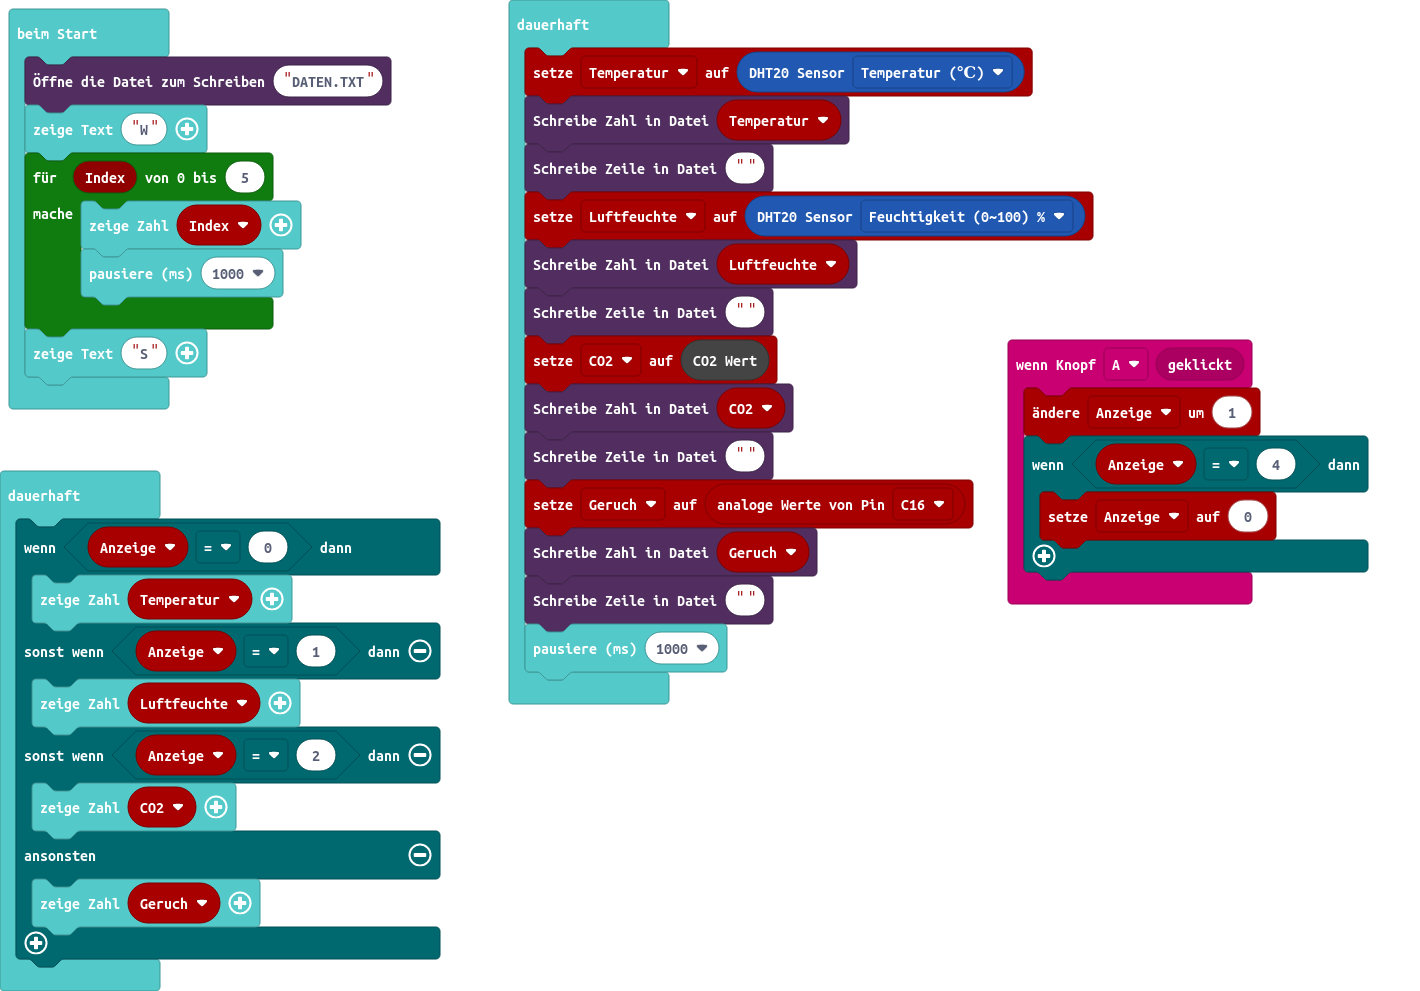
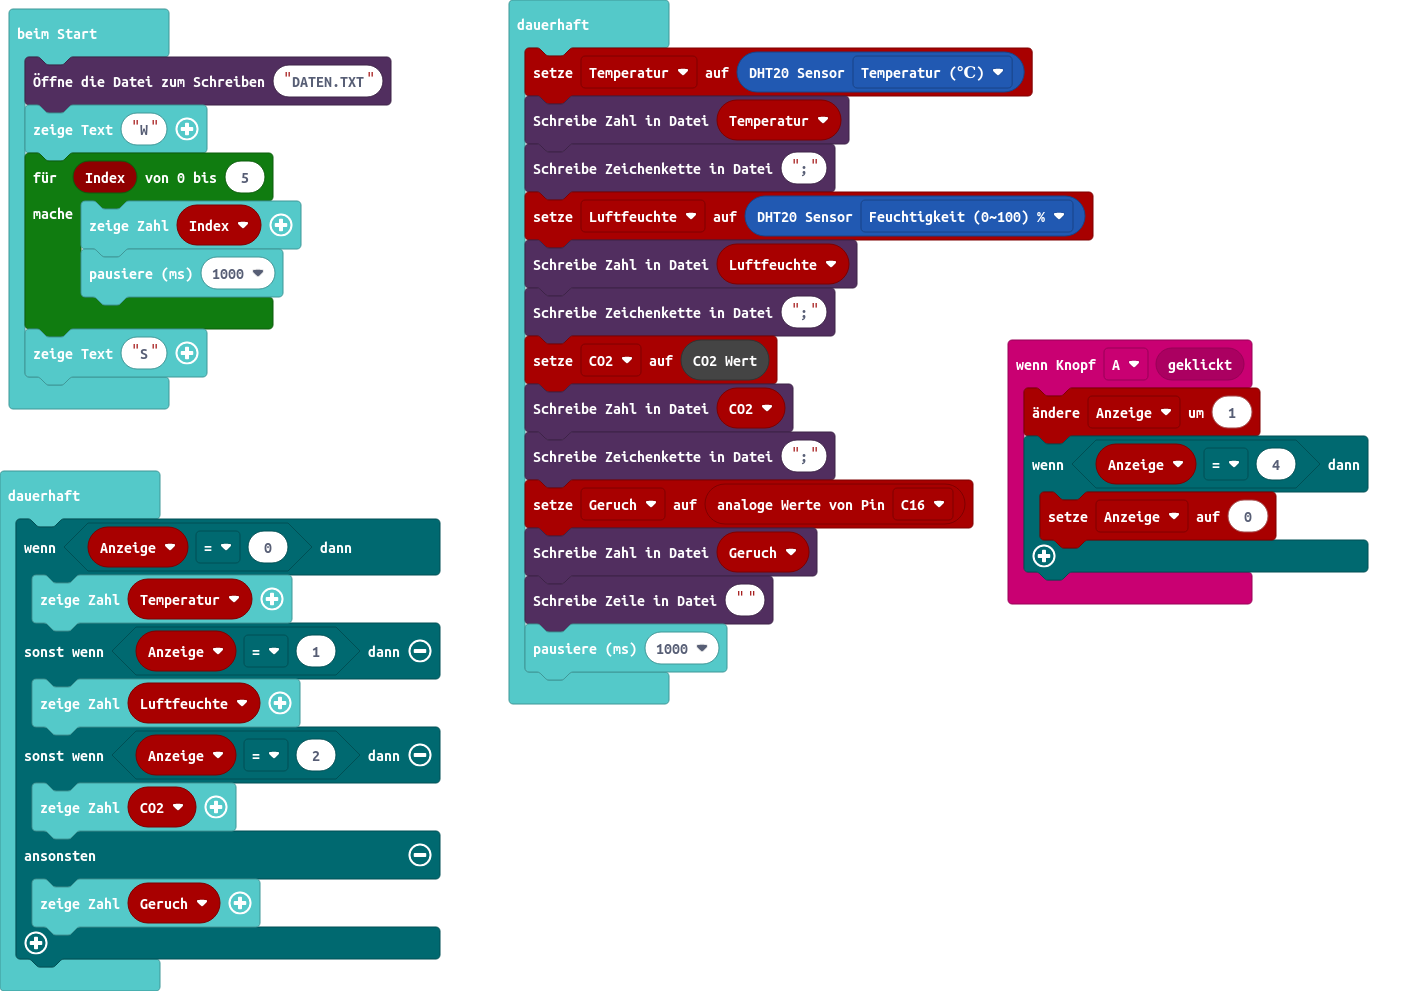
Korrektur Zeilen

Changed region(s): [[0.4338, 0.2725, 0.5887, 0.3633], [0.4338, 0.4238, 0.5887, 0.4844], [0.4338, 0.1211, 0.5887, 0.2119]]

diff --git a/main.ts b/main.ts
@@ -19,13 +19,13 @@ basic.showString("S")
 basic.forever(function () {
     Temperatur = DHT20.dht20Sensor(DHT20.DHT20_state.DHT20_temperature_C)
     Qwiic_Openlog.writeNumber(Temperatur)
-    Qwiic_Openlog.writeLine("")
+    Qwiic_Openlog.writeString(";")
     Luftfeuchte = DHT20.dht20Sensor(DHT20.DHT20_state.DHT20_humidity)
     Qwiic_Openlog.writeNumber(Luftfeuchte)
-    Qwiic_Openlog.writeLine("")
+    Qwiic_Openlog.writeString(";")
     CO2 = SCD30.readCO2()
     Qwiic_Openlog.writeNumber(CO2)
-    Qwiic_Openlog.writeLine("")
+    Qwiic_Openlog.writeString(";")
     Geruch = pins.analogReadPin(AnalogPin.C16)
     Qwiic_Openlog.writeNumber(Geruch)
     Qwiic_Openlog.writeLine("")
